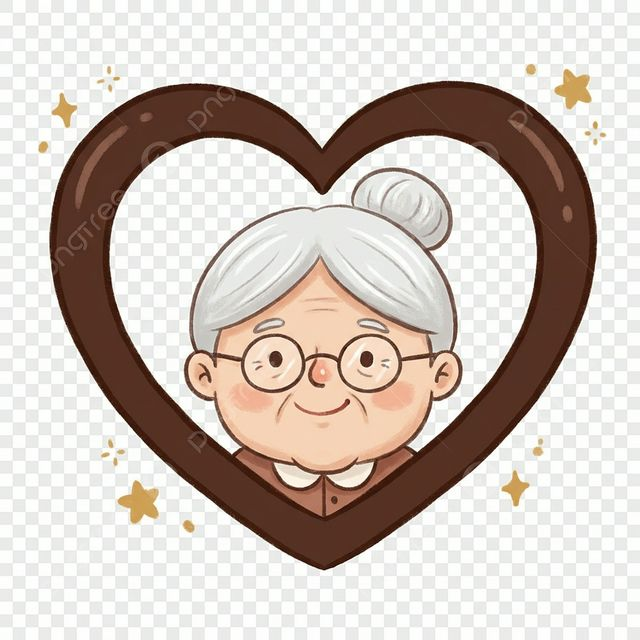
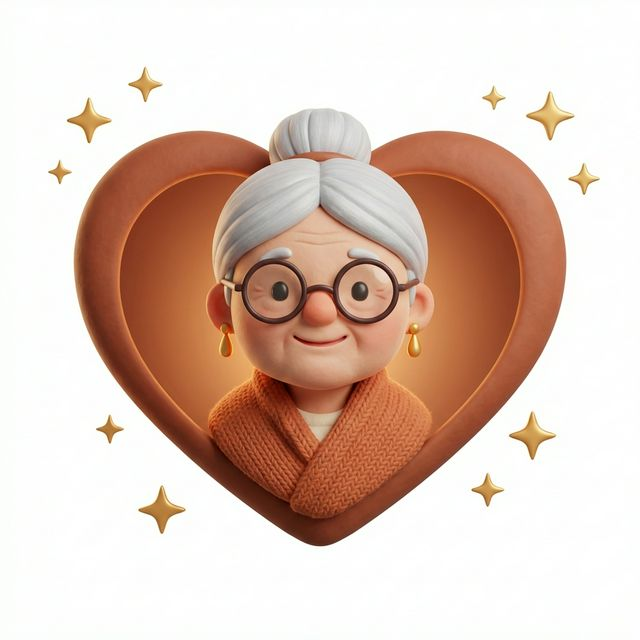
feat: swap in premium 3D grandma heart artwork on splash screen

diff --git a/SplashView.swift b/SplashView.swift
@@ -35,7 +35,7 @@ struct SplashView: View {
                             startRadius: 10,
                             endRadius: 145
                         )
-                        .frame(width: 290, height: 290)
+                        .frame(width: 340, height: 340)
                         .scaleEffect(glowScale)
                         .opacity(glowOpacity)
 
@@ -43,11 +43,11 @@ struct SplashView: View {
                             .resizable()
                             .interpolation(.high)
                             .aspectRatio(contentMode: .fit)
-                            .frame(width: 270, height: 270)
+                            .frame(width: 310, height: 310)
                             .scaleEffect(avatarScale)
                             .opacity(avatarOpacity)
                     }
-                    .frame(width: 290, height: 290)
+                    .frame(width: 340, height: 340)
 
                     // ── "Granly" Script Title ──────────────────────────
                     Text("Granly")
